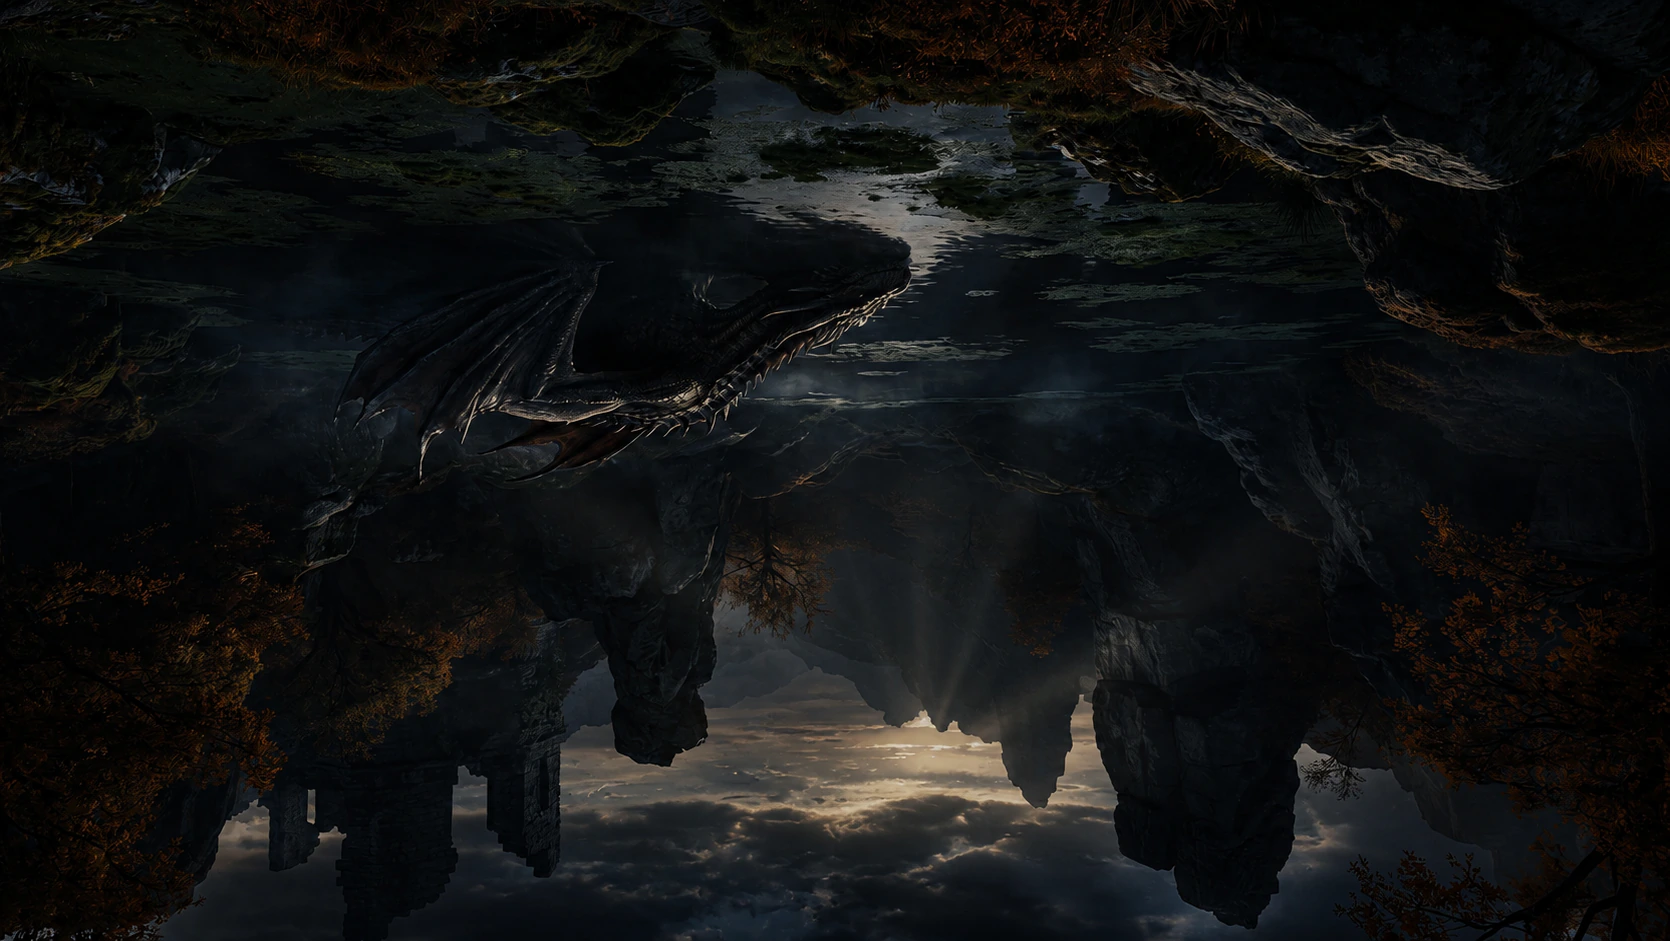
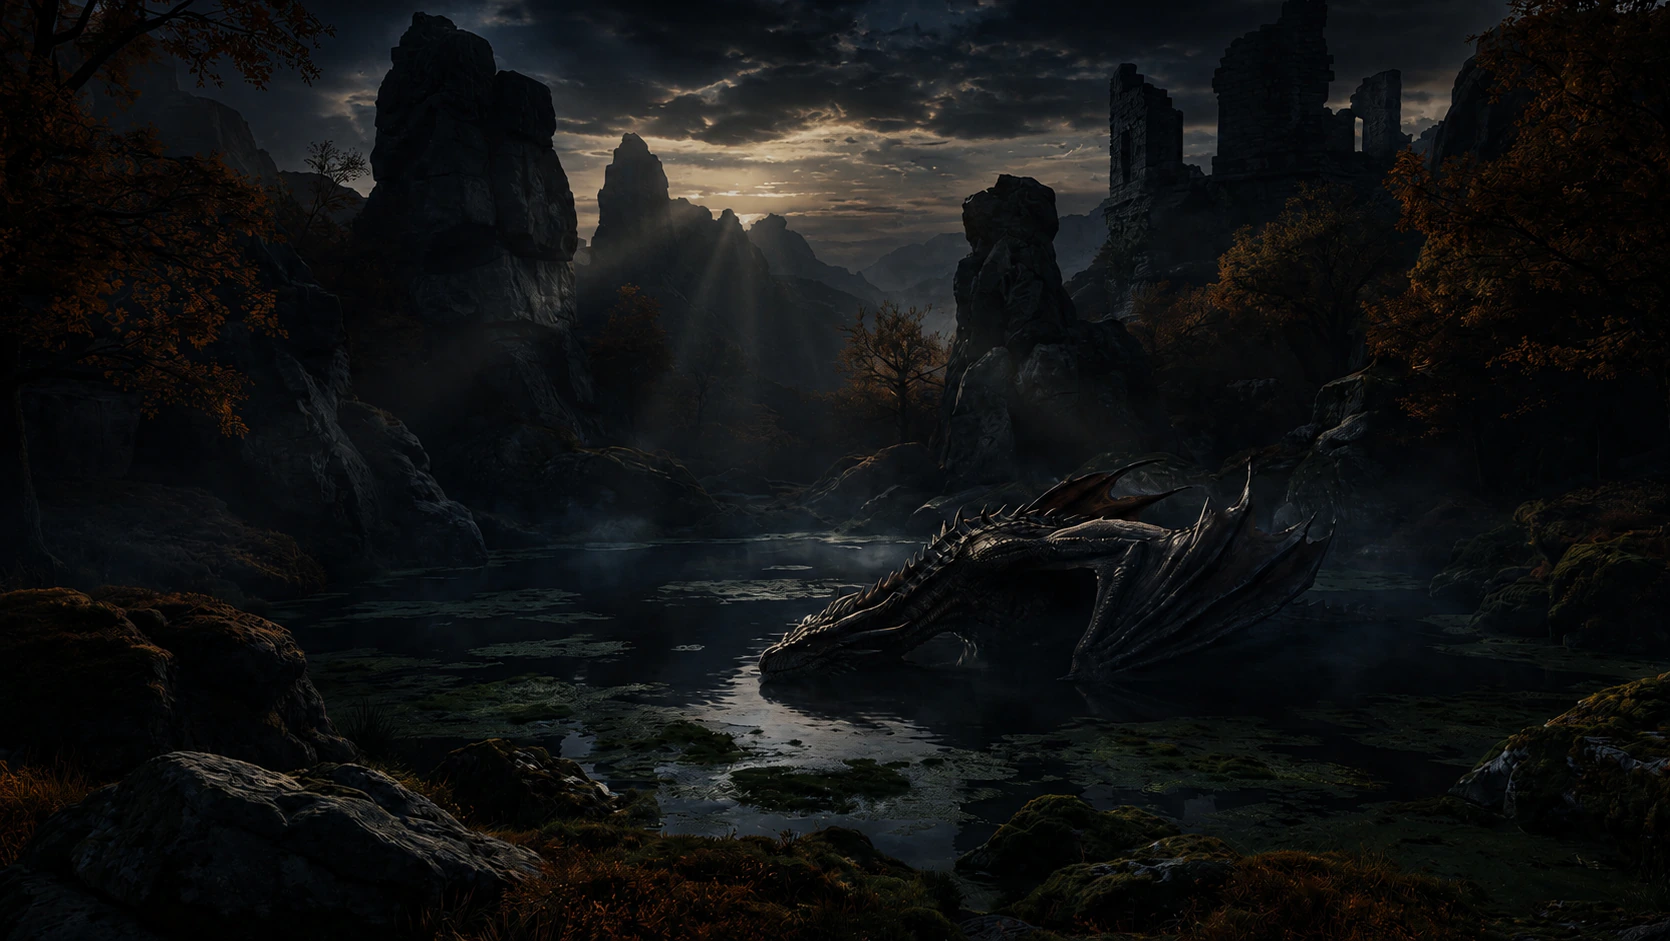
Fix HotD backdrops — rotate 180° (were upside down)
The recovered PNG sources were portrait-oriented; I rotated
90° clockwise on the last pass, which came out inverted.
Re-rotated at 270° (sips -r 270) and re-encoded at q92.

Bumped ?v=2 -> ?v=3 on the two HotD URLs so returning
visitors fetch the fixed copies instead of serving the
upside-down ones from immutable browser cache.

diff --git a/src/App.css b/src/App.css
@@ -78,7 +78,7 @@
    Cinzel display, Baskerville body, Copperplate labels.
    ============================================================= */
 [data-theme="hotd-light"] {
-  --bg-image: url('/hotd-light.webp?v=2');
+  --bg-image: url('/hotd-light.webp?v=3');
   --text-primary: #17110A;
   --text-dim:     rgba(23, 17, 10, 0.85);
   --text-faint:   rgba(23, 17, 10, 0.62);
@@ -512,7 +512,7 @@
 
 /* HotD-dark theme block below (unchanged): */
 [data-theme="hotd-dark"] {
-  --bg-image: url('/hotd-dark.webp?v=2');
+  --bg-image: url('/hotd-dark.webp?v=3');
   --text-primary: #F1E8D2;
   --text-dim:     rgba(241, 232, 210, 0.88);
   --text-faint:   rgba(241, 232, 210, 0.65);

diff --git a/index.html b/index.html
@@ -27,8 +27,8 @@
           var themeMap = {
             'editorial-light': '/mountain-light.webp?v=2',
             'editorial-dark': '/mountain-dark.webp?v=2',
-            'hotd-light': '/hotd-light.webp?v=2',
-            'hotd-dark': '/hotd-dark.webp?v=2',
+            'hotd-light': '/hotd-light.webp?v=3',
+            'hotd-dark': '/hotd-dark.webp?v=3',
             'sakura-light': '/sakura-light.webp?v=2',
             'sakura-dark': '/sakura-dark.webp?v=2',
             'worldsfinest-light': '/worldsfinest-light.webp?v=2',
